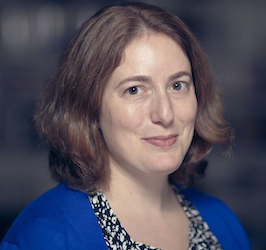
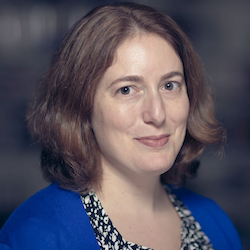
updated people section to use uniform images

diff --git a/_includes/footer.html b/_includes/footer.html
@@ -1,18 +1,18 @@
 <!-- Footer -->
 			<footer id="footer">
-			<!--	<ul class="icons">
-					<li><a href="#" class="icon fa-twitter"><span class="label">Twitter</span></a></li>
-					<li><a href="#" class="icon fa-facebook"><span class="label">Facebook</span></a></li>
-					<li><a href="#" class="icon fa-instagram"><span class="label">Instagram</span></a></li>
-					<li><a href="#" class="icon fa-dribbble"><span class="label">Dribbble</span></a></li>
-					<li><a href="#" class="icon fa-envelope"><span class="label">Envelope</span></a></li>
+			<ul class="icons">
+					<li><a href="mailto:urbandat@uw.edu" class="icon fa-envelope"><span class="label">Email</span></a></li>
+					<li><a href="https://twitter.com/uwurbanalytics" class="icon fa-twitter"><span class="label">Twitter</span></a></li>
 				</ul>
-				<ul class="menu">
+				<!--<ul class="menu">
 					<li><a href="#">FAQ</a></li>
 					<li><a href="#">Terms of Use</a></li>
 					<li><a href="#">Privacy</a></li>
 					<li><a href="#">Contact</a></li>
-				</ul> -->
+				</ul> -->				
+				<div class="4u 6u(2) 12u$(3)" style="margin-left:auto; margin-right:auto">
+  <a class="twitter-timeline" data-height="500" data-link-color="#4b2e83" href="https://twitter.com/uwurbanalytics">Tweets by Urbanalytics</a> <script async src="//platform.twitter.com/widgets.js" charset="utf-8"></script>
+  </div>
 				<span class="copyright">
 					&copy; Urbanalytics 2017. All rights reserved. Template by <a href="http://www.html5webtemplates.co.uk">Responsive Web Templates</a>
 				</span>

diff --git a/_includes/people.html b/_includes/people.html
@@ -4,7 +4,7 @@
 					<h2>People</h2>
 					<div class="row uniform">
 					{% for post in site.categories.people %}
-						<div class="3u 6u(2) 12u$(3)">
+						<div class="3u 6u(4) 6u(3)">
 							<article class="box post">
 								<a href="{{ post.link }}" class="image fit"><img src="images/people/{{ post.img }}" alt="{{ post.alt }}" /></a>
 								<p><a href="{{ post.link }}">{{ post.name }}</a>, {{ post.aff }}</p>

diff --git a/_includes/projects.html b/_includes/projects.html
@@ -4,7 +4,7 @@
 					<h2>Affiliated Projects</h2>
 				<div class="row">
 					{% for post in site.categories.projects %}
-					<div class="{{ post.home_layout }}">
+					<div class="4u 6u(2) 12u$(3)">
 						<article class="box post project">
 							{% if post.link %}
 							<a href="{{ post.link }}" class="image fit">

diff --git a/css/style-xlarge.css b/css/style-xlarge.css
@@ -16,11 +16,11 @@
 		padding: 5em 0;
 	}
 	.box.post.project{
-			min-height:460px;
-			max-height:460px;
+			height:460px;
+			
 		}
 
 		#people .box.post{
-			max-height:380px;
-			min-height:375px;
+			height:380px;
+		
 		}

diff --git a/css/style.css b/css/style.css
@@ -19,7 +19,8 @@ Custom
 		text-decoration:none;
 		border-bottom:none;
 }
-
+#people .box.post{padding-top:0!important;
+margin-top:20px;}
 
 /* Basic */
 

diff --git a/css/style-small.css b/css/style-small.css
@@ -4,6 +4,11 @@
 	License: pixelarity.com/license
 */
 
+
+#people .box.post{
+			height:450px;
+		}
+
 /* Basic */
 
 	body, input, select, textarea {

diff --git a/css/style-large.css b/css/style-large.css
@@ -22,3 +22,10 @@
 		background-attachment: scroll;
 		padding: 8em 0;
 	}
+
+
+/*People */
+	#people .box.post{
+			height:400px;
+		
+		}
